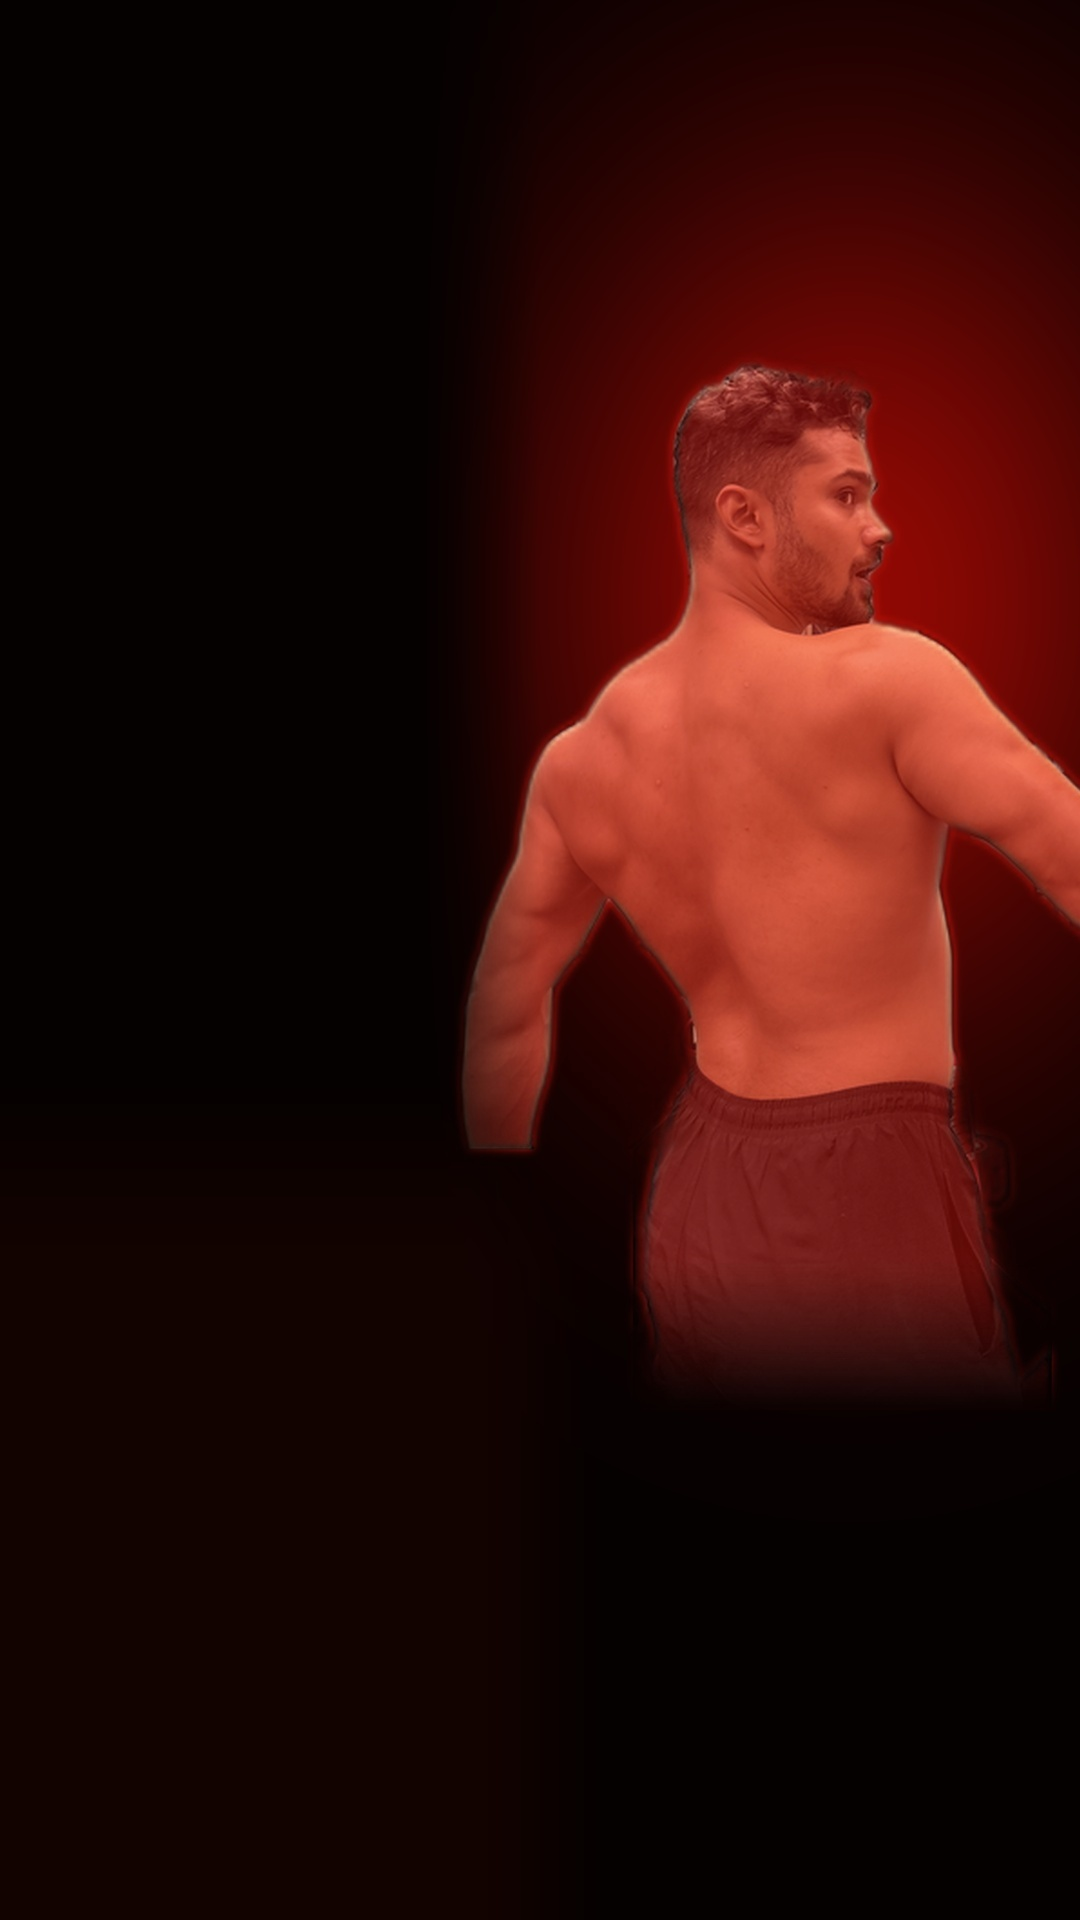
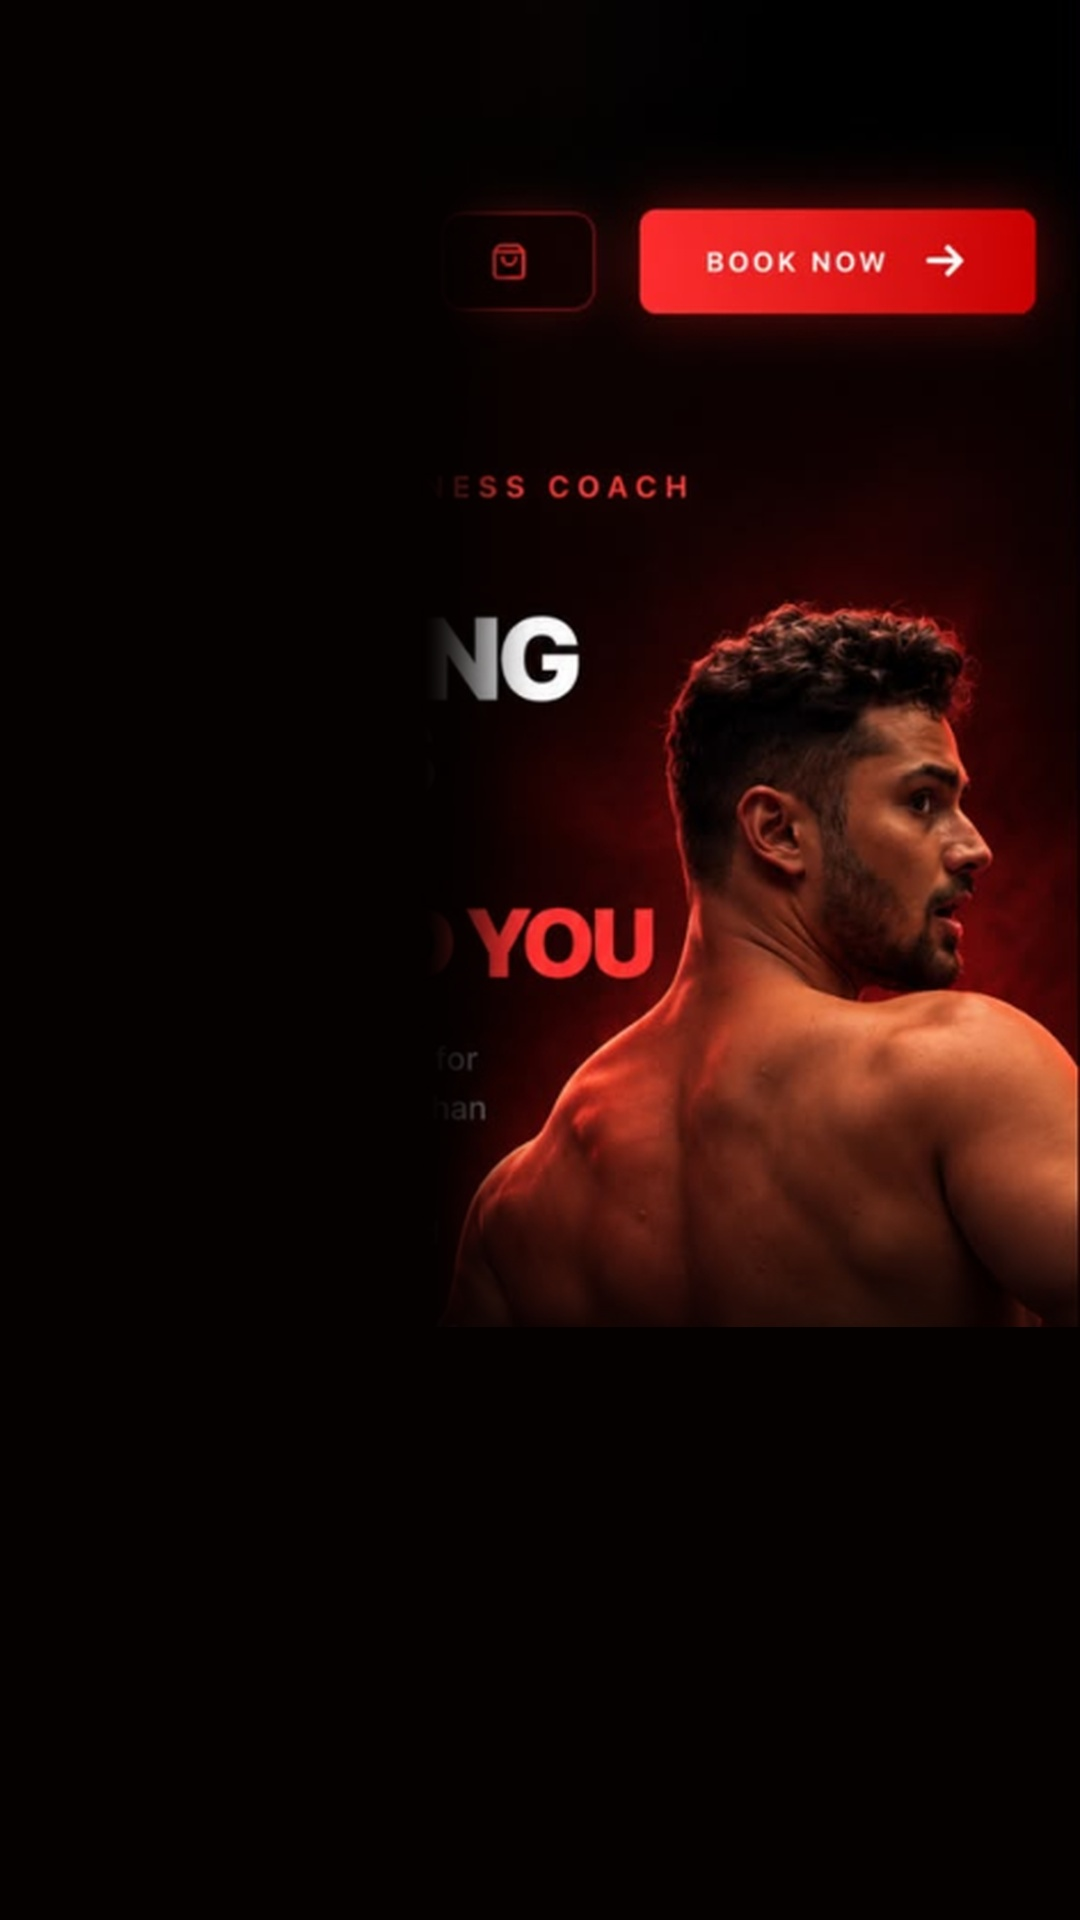
Update desktop transparent cutout and mobile hero alignment

diff --git a/components/Hero.tsx b/components/Hero.tsx
@@ -16,13 +16,13 @@ export default function Hero() {
       {/* Intense glow behind the guy's head / cards */}
       <div className="absolute top-[10%] right-[10%] w-[600px] h-[600px] bg-[radial-gradient(circle_at_center,_rgba(255,20,0,0.2)_0%,_transparent_60%)] blur-[70px] z-0 pointer-events-none"></div>
 
-      {/* Mobile Hero Background Art (Matches Reference Image Exactly) */}
+      {/* Mobile Hero Background Art (Clean original fire photo, zero ghost text) */}
       <div className="lg:hidden absolute inset-0 z-0 overflow-hidden">
         <Image 
-          src="/hero_mobile_art_v4.jpg" 
+          src="/coach_fire_mobile_v2.jpg" 
           alt="Coach Souvik" 
           fill 
-          className="object-cover object-right-top sm:object-right" 
+          className="object-cover object-right" 
           priority 
         />
         {/* Left protective gradient ensuring crystal clear text readability */}
@@ -138,16 +138,16 @@ export default function Hero() {
           {/* Intense Backlight Flare directly behind the athlete */}
           <div className="absolute top-[30%] right-[5%] w-[600px] h-[600px] bg-[radial-gradient(circle_at_center,_rgba(255,30,0,0.3)_0%,_transparent_60%)] rounded-full blur-[80px] z-20 pointer-events-none mix-blend-screen"></div>
 
-          {/* Main Image Container (Z-30 so it sits in FRONT of cards) */}
-          <div className="absolute bottom-0 right-0 w-full h-[95%] z-30 flex items-end justify-center pointer-events-auto" style={{ maskImage: 'linear-gradient(to bottom, black 90%, transparent 100%)', WebkitMaskImage: 'linear-gradient(to bottom, black 90%, transparent 100%)' }}>
+          {/* Main Image Container (Z-30 so it sits in FRONT of cards, transparent cutout with no background) */}
+          <div className="absolute bottom-0 right-0 w-full h-[88%] xl:h-[92%] z-30 flex items-end justify-center pointer-events-auto" style={{ maskImage: 'linear-gradient(to bottom, black 88%, transparent 100%)', WebkitMaskImage: 'linear-gradient(to bottom, black 88%, transparent 100%)' }}>
              <Image 
-               src="/coach_back_desktop_v2.png" 
+               src="/coach_fire_hero_cutout.png" 
                alt="Souvik Fitness Coach" 
-               width={1100} 
-               height={1260}
-               className="w-[105%] max-w-[760px] h-auto object-contain object-bottom transform -translate-y-8 xl:-translate-y-12 mx-auto"
+               width={768} 
+               height={1024}
+               className="w-full max-w-[560px] xl:max-w-[620px] h-auto object-contain object-bottom translate-x-7 xl:translate-x-12 translate-y-6 xl:translate-y-8 mx-auto"
                style={{
-                 filter: 'drop-shadow(0px 0px 35px rgba(255, 30, 0, 0.25)) brightness(1.05) contrast(1.08)'
+                 filter: 'drop-shadow(0px 0px 35px rgba(255, 20, 0, 0.25))'
                }}
                priority
              />
